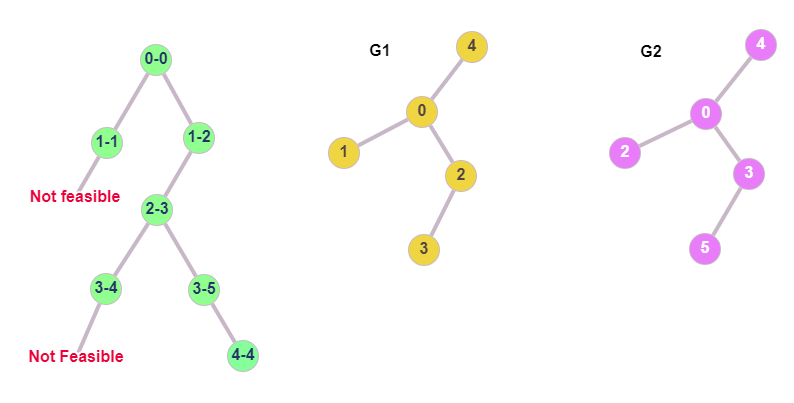
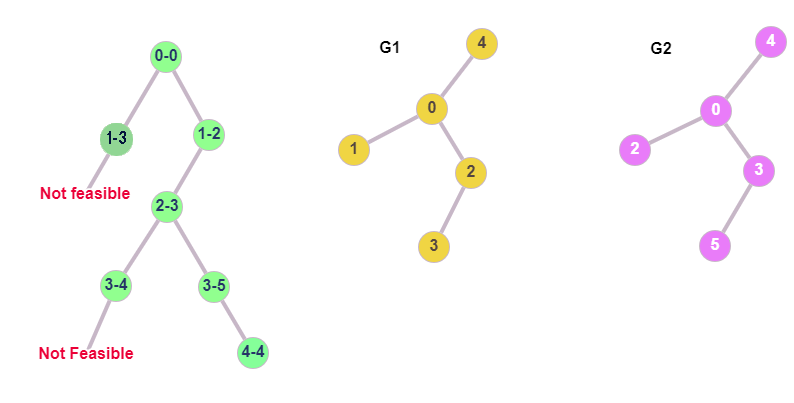
Fix enumerating error

diff --git a/content/posts/networkx/vf2pp/ISO-feasibility-candidates/index.md b/content/posts/networkx/vf2pp/ISO-feasibility-candidates/index.md
@@ -29,7 +29,7 @@ In order to check if the graphs $G_1$, $G_2$ are isomorphic, we check every cand
 feasible, we extend the mapping and go deeper into the tree of pairs. If it's not feasible, we climb up and follow a
 different branch, until every node in $G_1$ is mapped to a node $G_2$. In our example, we start by examining node 0 from G1, with
 node 0 of G2. After some checks (details below), we decide that the
-nodes 0 and 0 are matching, so we go deeper to map the remaining nodes. The next pair is 1-1, which fails the
+nodes 0 and 0 are matching, so we go deeper to map the remaining nodes. The next pair is 1-3, which fails the
 feasibility check, so we have to examine a different branch as shown. The new branch is 1-2, which is feasible, so we
 continue on using the same logic until all the nodes are mapped.
 
